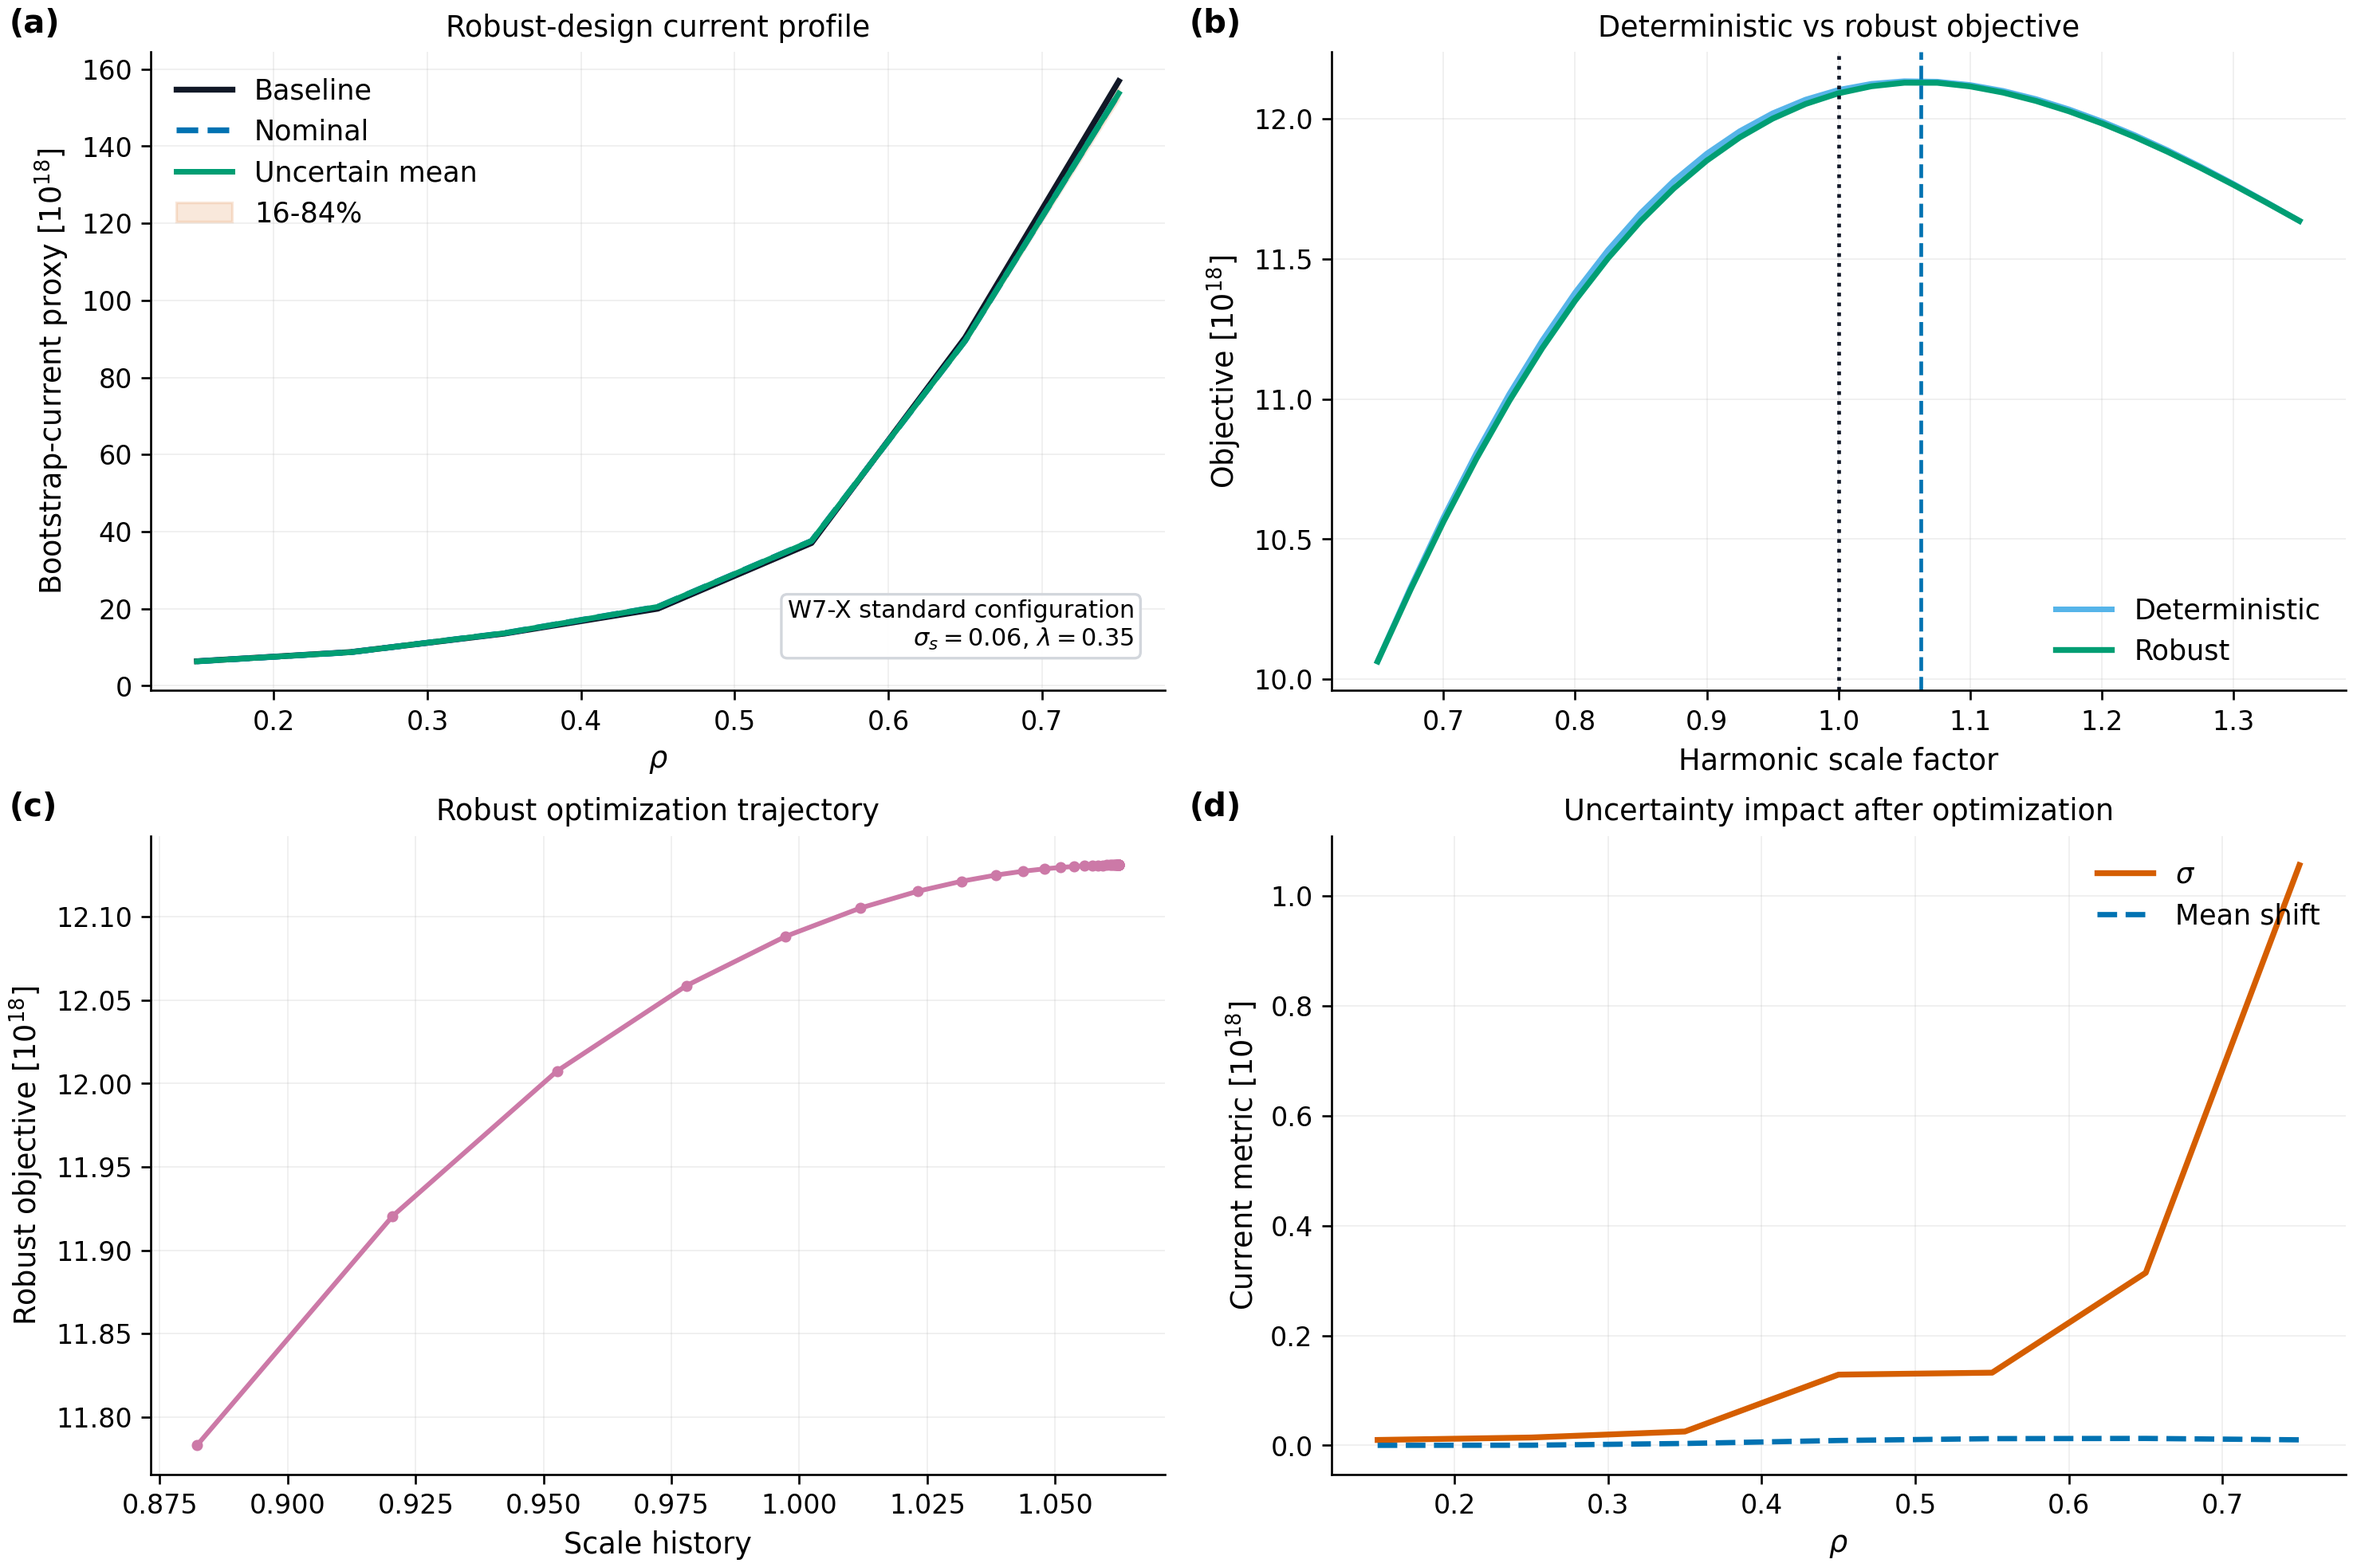
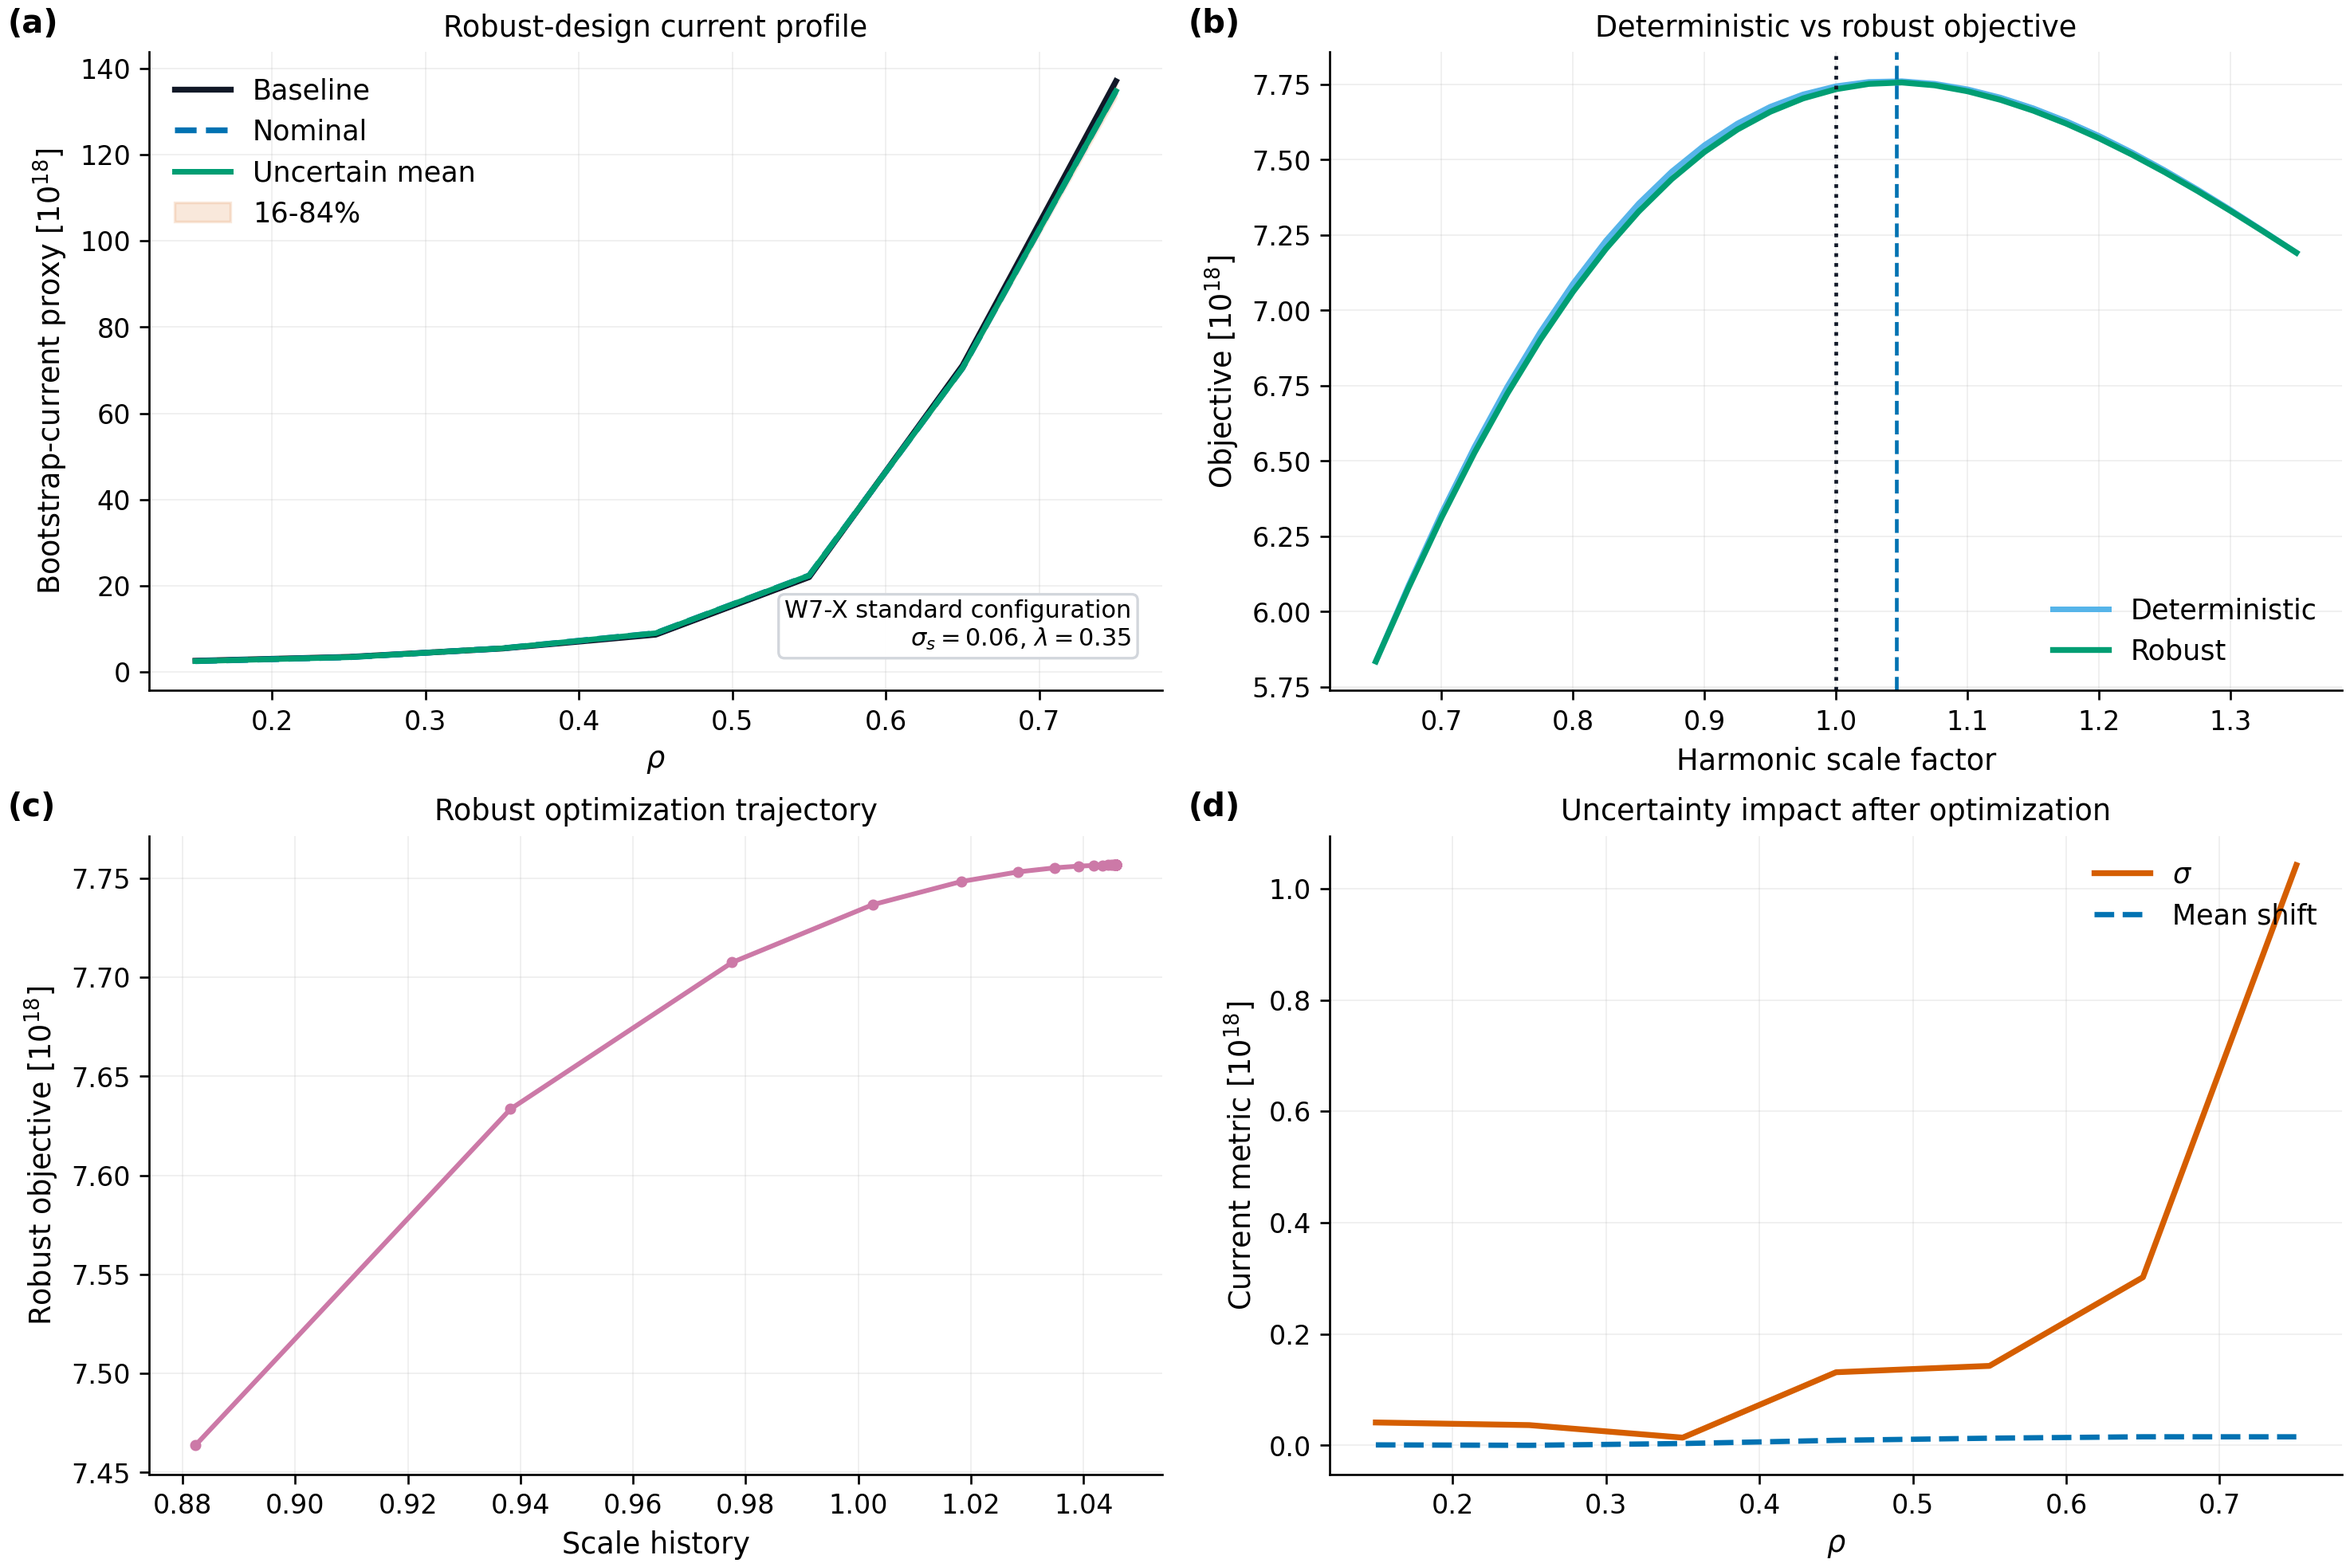
Prepare NTX 0.2.2 release

diff --git a/examples/bootstrap_current_robust_optimization.py b/examples/bootstrap_current_robust_optimization.py
@@ -220,14 +220,32 @@ def main(
 
     baseline_weighted = float(np.trapezoid(baseline, rho_np))
     optimized_weighted = float(np.trapezoid(mean_profile, rho_np))
+    objective_initial = float(objective_history[0])
+    objective_final = float(objective_history[-1])
+    current_norm = max(abs(baseline_weighted), 1.0e-30)
+    objective_norm = max(abs(objective_initial), 1.0e-30)
     payload = {
         "baseline_scale": float(result.baseline_scale),
         "optimized_scale": float(result.optimized_scale),
         "uncertainty_sigma": float(result.uncertainty_sigma),
         "risk_aversion": float(result.risk_aversion),
+        "radial_points": int(rho_np.size),
+        "scale_grid_size": int(scale_grid.size),
+        "quadrature_order": int(quadrature_order),
         "baseline_weighted_current_proxy": baseline_weighted,
         "optimized_weighted_current_proxy": optimized_weighted,
-        "robust_gain": optimized_weighted / max(baseline_weighted, 1.0e-30),
+        "weighted_current_ratio": optimized_weighted / current_norm,
+        "weighted_current_relative_change": (optimized_weighted - baseline_weighted)
+        / current_norm,
+        "robust_objective_initial": objective_initial,
+        "robust_objective_final": objective_final,
+        "robust_objective_relative_change": (objective_final - objective_initial)
+        / objective_norm,
+        "robust_gain": optimized_weighted / current_norm,
+        "robust_gain_definition": (
+            "optimized_weighted_current_proxy / "
+            "max(abs(baseline_weighted_current_proxy), 1e-30)"
+        ),
         "max_current_std": float(std_profile.max()),
         "rho": rho_np.tolist(),
         "optimized_current_mean": mean_profile.tolist(),

diff --git a/tests/test_bootstrap_current_robust_optimization_example.py b/tests/test_bootstrap_current_robust_optimization_example.py
@@ -2,6 +2,7 @@ from __future__ import annotations
 
 import importlib.util
 import json
+import math
 from pathlib import Path
 
 ROOT = Path(__file__).resolve().parents[1]
@@ -27,5 +28,18 @@ def test_bootstrap_current_robust_optimization_writes_outputs(tmp_path):
     assert output_prefix.with_suffix(".png").exists()
     assert output_prefix.with_suffix(".pdf").exists()
     payload = json.loads(output_prefix.with_suffix(".json").read_text(encoding="utf-8"))
-    assert payload["robust_gain"] > 0.0
+    for key in (
+        "baseline_weighted_current_proxy",
+        "optimized_weighted_current_proxy",
+        "weighted_current_ratio",
+        "weighted_current_relative_change",
+        "robust_objective_initial",
+        "robust_objective_final",
+        "robust_objective_relative_change",
+        "robust_gain",
+    ):
+        assert math.isfinite(payload[key])
+    assert payload["radial_points"] == 3
+    assert payload["scale_grid_size"] == 5
+    assert payload["quadrature_order"] == 3
     assert payload["max_current_std"] >= 0.0

diff --git a/src/ntx/__init__.py b/src/ntx/__init__.py
@@ -124,7 +124,7 @@ from .vmec_jax_vmec import surface_from_vmec_jax_vmec_wout, surface_from_vmec_ja
 try:
     __version__ = version("ntx")
 except PackageNotFoundError:
-    __version__ = "0.2.1"
+    __version__ = "0.2.2"
 
 __all__ = [
     "__version__",

diff --git a/docs/release-notes-0.2.2.md b/docs/release-notes-0.2.2.md
@@ -1,0 +1,41 @@
+# NTX 0.2.2 Release Notes
+
+NTX `0.2.2` is a CI and release-hardening patch on top of the `0.2.1`
+validation release.
+
+## Shipping Scope
+
+This release preserves the public package API and the promoted `0.2.1`
+validation scope. It refreshes the robust bootstrap-current optimization stress
+artifact and fixes the corresponding CI smoke gate.
+
+## User-Facing Changes
+
+- `examples/bootstrap_current_robust_optimization.py` now writes
+  `robust_objective_relative_change` separately from the signed
+  `weighted_current_ratio`.
+- The retained `robust_gain` JSON key is now explicitly defined as the
+  optimized weighted-current proxy normalized by the absolute baseline
+  weighted-current proxy.
+- The robust optimization smoke test now verifies artifact/schema and finite
+  uncertainty metrics, while objective improvement remains covered by the
+  dedicated autodiff unit test.
+
+## Release Checks
+
+Verified locally on 2026-04-25 before tagging:
+
+- `python -m ruff check .`
+- `python -m mypy src/ntx`
+- `python -m pytest -q`: `331 passed, 5 skipped`
+- `python scripts/test_lane_manifest.py core_robust_bootstrap_workflow > /tmp/ntx-tests.txt && xargs pytest -q -m "not gpu" --cov=src/ntx --cov-report= < /tmp/ntx-tests.txt`
+- `python scripts/check_physics_gates.py`
+- `python -m sphinx -b html docs docs/_build/html`
+- `python -m build --outdir /tmp/ntx-dist-0.2.2`
+- `python -m twine check /tmp/ntx-dist-0.2.2/*`
+- clean-venv wheel smoke test for `ntx --help`, `python -m ntx --help`, and
+  importing `GridSpec`
+
+## Tagging
+
+The published tag is `v0.2.2`.

diff --git a/docs/release.md b/docs/release.md
@@ -37,8 +37,8 @@ research checkout.
 6. Create an annotated tag:
 
    ```bash
-   git tag -a v0.2.1 -m "NTX 0.2.1"
-   git push origin v0.2.1
+   git tag -a v0.2.2 -m "NTX 0.2.2"
+   git push origin v0.2.2
    ```
 
 7. Let the GitHub release workflow build the distributions, attach them to the
@@ -46,7 +46,7 @@ research checkout.
 
 ## Current Release
 
-The current release is `0.2.1`.
+The current release is `0.2.2`.
 
 Verified locally on 2026-04-25:
 
@@ -60,11 +60,12 @@ Verified locally on 2026-04-25:
   `python -c "import ntx; from ntx import GridSpec"`
 
 The previous `v0.2.0` tag workflows were green for `tests`, `package`, and
-`release`, and published successfully through Trusted Publishing. The `v0.2.1`
-release uses the same tag-gated workflow:
+`release`, and published successfully through Trusted Publishing. The `v0.2.2`
+release uses the same tag-gated workflow and supersedes `v0.2.1` with a robust
+bootstrap-current smoke-gate correction:
 
-- [GitHub release v0.2.1](https://github.com/uwplasma/NTX/releases/tag/v0.2.1)
-- [PyPI ntx 0.2.1](https://pypi.org/project/ntx/0.2.1/)
+- [GitHub release v0.2.2](https://github.com/uwplasma/NTX/releases/tag/v0.2.2)
+- [PyPI ntx 0.2.2](https://pypi.org/project/ntx/0.2.2/)
 
 ## CI/CD Release Path
 

diff --git a/docs/autodiff.md b/docs/autodiff.md
@@ -493,7 +493,10 @@ docs/_static/bootstrap_current_robust_optimization.json
 
 This is a synthetic robust-design benchmark anchored to the same differentiable
 current-proxy workflow as the main optimization example. It is currently a
-tracked open lane, not a literature-grade validation claim.
+tracked open lane, not a literature-grade validation claim. The JSON artifact
+separates `robust_objective_relative_change`, which gates the optimization
+workflow, from `weighted_current_ratio`, which is a signed current-profile
+diagnostic and should not be interpreted as a standalone parity claim.
 
 ## Parallel Execution
 

diff --git a/CHANGELOG.md b/CHANGELOG.md
@@ -1,5 +1,17 @@
 # Changelog
 
+## 0.2.2
+
+CI and release hardening after the `0.2.1` validation release.
+
+Highlights:
+
+- robust bootstrap-current optimization artifacts now separate robust-objective
+  improvement from the signed weighted-current ratio
+- the robust example smoke test now checks artifact/schema and finite
+  uncertainty metrics instead of requiring improvement from a two-step toy run
+- refreshed the robust-design figure artifact and JSON metadata for the docs
+
 ## 0.2.1
 
 Validation, documentation, and performance-artifact hardening after the first

diff --git a/docs/index.md b/docs/index.md
@@ -86,7 +86,7 @@ parallel-throughput workflows.
 - [Research Roadmap](research-roadmap.md): next research-grade development lanes
 - [Manuscript Figures](manuscript.md): publication-ready figure inventory
 - [Literature](literature.md): thesis and package links
-- [Release Notes 0.2.1](release-notes-0.2.1.md): current release notes
+- [Release Notes 0.2.2](release-notes-0.2.2.md): current release notes
 
 ## Contents
 
@@ -116,6 +116,7 @@ research-roadmap
 manuscript
 literature
 release
+release-notes-0.2.2
 release-notes-0.2.1
 release-notes-0.2.0
 ```

diff --git a/docs/_static/manuscript_tables.md b/docs/_static/manuscript_tables.md
@@ -188,7 +188,7 @@
 
 | Key | Value |
 | --- | --- |
-| Commit | `c98ec8c28bfdcccce56e629d478ea7c1457c5b41` |
+| Commit | `9f6280ea08397d42749b66992af0dd31e6933e0f` |
 | Branch | `main` |
 | Python | `3.11.14` |
 | JAX | `0.9.2` |
